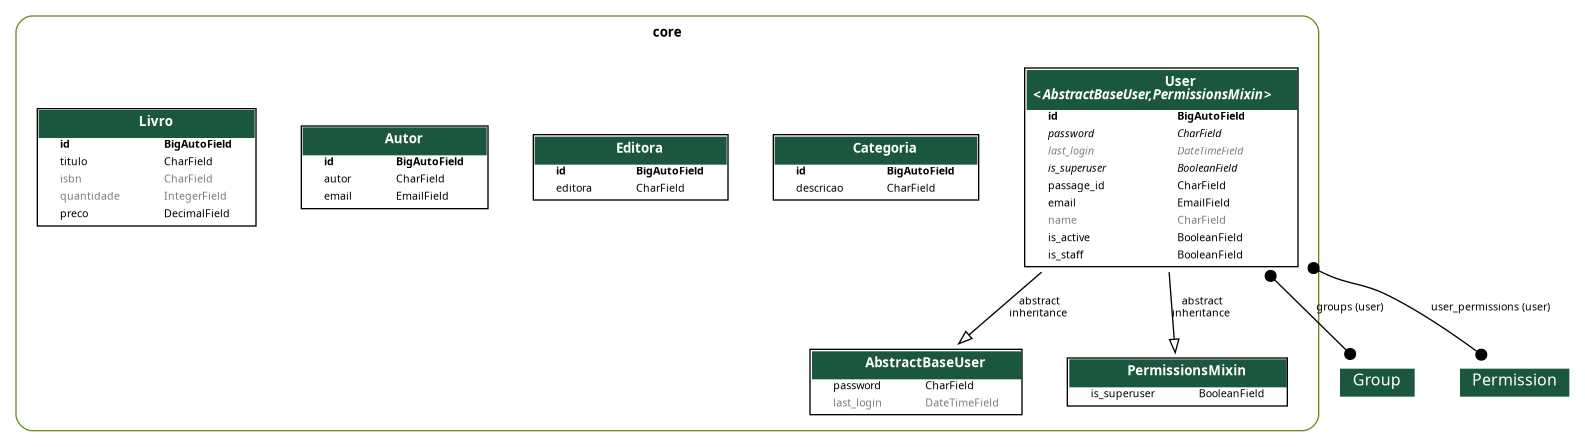
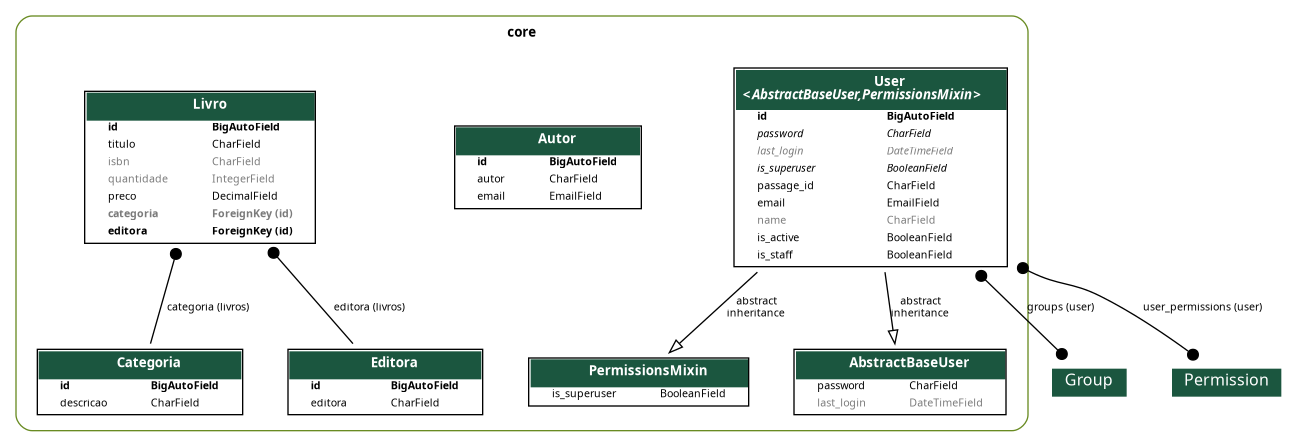
feat:inclusão do relacionamento entre livro editora e categorias

diff --git a/core/migrations/0010_livro_categoria_livro_editora.py b/core/migrations/0010_livro_categoria_livro_editora.py
@@ -1,0 +1,26 @@
+# Generated by Django 5.1.7 on 2026-03-17 18:46
+
+import django.db.models.deletion
+from django.db import migrations, models
+
+
+class Migration(migrations.Migration):
+
+    dependencies = [
+        ('core', '0009_alter_livro_titulo'),
+    ]
+
+    operations = [
+        migrations.AddField(
+            model_name='livro',
+            name='categoria',
+            field=models.ForeignKey(blank='True', null='True', on_delete=django.db.models.deletion.PROTECT, related_name='livros', to='core.categoria'),
+            preserve_default='True',
+        ),
+        migrations.AddField(
+            model_name='livro',
+            name='editora',
+            field=models.ForeignKey(null='TRUE', on_delete=django.db.models.deletion.PROTECT, related_name='livros', to='core.editora'),
+            preserve_default='TRUE',
+        ),
+    ]

diff --git a/core/models/livro.py b/core/models/livro.py
@@ -1,10 +1,14 @@
 from django.db import models
+from .categoria import Categoria
+from .editora import Editora
 
 class Livro(models.Model):
     titulo = models.CharField(max_length=255)
     isbn = models.CharField(max_length=32, null=True, blank=True)
     quantidade = models.IntegerField(default=0,  null=True, blank=True)
     preco = models.DecimalField(max_digits=7, decimal_places=2, default=0)
+    categoria = models.ForeignKey(Categoria, on_delete=models.PROTECT, related_name='livros', null="True", blank="True")
+    editora = models.ForeignKey(Editora, on_delete=models.PROTECT, related_name='livros', null='TRUE')
 
     def __str__(self):
         return f"({self.id}) {self.titulo} ({self.quantidade})"
